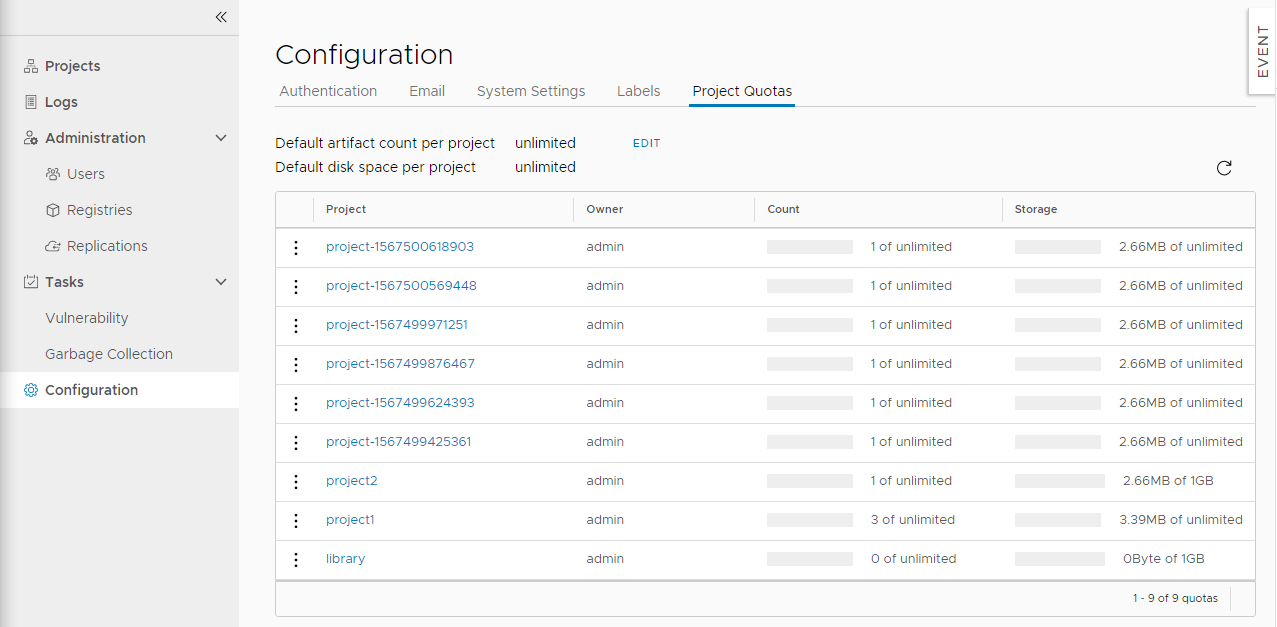
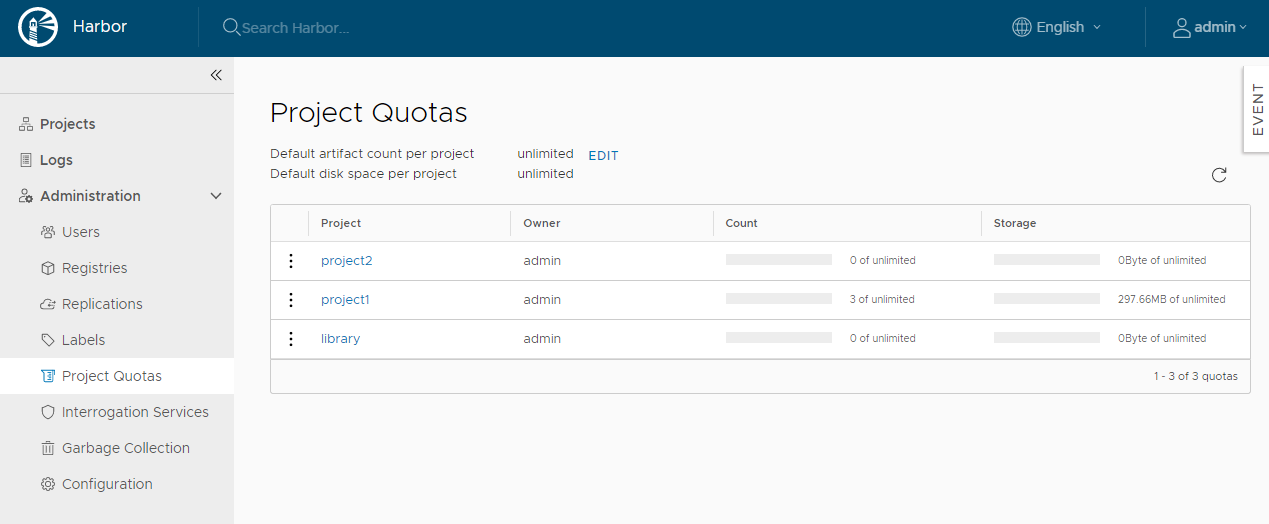
Updated project quota doc to reflect new position in UI

diff --git a/docs/user_guide.md b/docs/user_guide.md
@@ -301,7 +301,7 @@ The images can be filtered by labels:
 
 ## Set Project Quotas
 
-To exercise control over resource use, as a system administrator you can set  quotas on projects. You can limit the number of tags that a project can contain and limit the amount of storage capacity that a project can consume. You can set default quotas that apply to all projects globally.
+To exercise control over resource use, as a Harbor administrator you can set  quotas on projects. You can limit the number of tags that a project can contain and limit the amount of storage capacity that a project can consume. You can set default quotas that apply to all projects globally.
 
 **NOTE**: Default quotas apply to projects that are created after you set or change the default quota. The default quota is not applied to projects that already existed before you set it.
 
@@ -309,16 +309,12 @@ You can also set quotas on individual projects. If you set a global default quot
 
 By default, all projects have unlimited quotas for both tags and storage use. 
 
-1. Go to **Configuration** > **Project Quotas**.
+1. Select the **Project Quotas** view.
    ![Project quotas](img/project-quota1.png)
 1. To set global default quotas on all projects, click **Edit**.
    ![Project quotas](img/project-quota2.png)
-   1. For **Default artifact count**, enter the maximum number of tags that any project can contain. 
-   
-   Enter `-1` to set the default to unlimited. 
-   1. For **Default storage consumption**, enter the maximum quantity of storage that any project can consume, selecting `MB`, `GB`, or `TB` from the drop-down menu. 
-   
-   Enter `-1` to set the default to unlimited.
+   1. For **Default artifact count**, enter the maximum number of tags that any project can contain, or enter `-1` to set the default to unlimited.   
+   1. For **Default storage consumption**, enter the maximum quantity of storage that any project can consume, selecting `MB`, `GB`, or `TB` from the drop-down menu, or enter `-1` to set the default to unlimited.  
    ![Project quotas](img/project-quota3.png)
    1. Click **OK**.
 1. To set quotas on an individual project, click the 3 vertical dots next to a project and select **Edit**.
@@ -326,7 +322,7 @@ By default, all projects have unlimited quotas for both tags and storage use.
    1. For **Default artifact count**, enter the maximum number of tags that this individual project can contain, or enter `-1` to set the default to unlimited. 
    1. For **Default storage consumption**, enter the maximum quantity of storage that this individual project can consume, selecting `MB`, `GB`, or `TB` from the drop-down menu.
 
-After you set quotas, the you can see how much of their quotas each project has consumed in the **Project Quotas** tab.
+After you set quotas, the you can see how much of their quotas each project has consumed.
 
 ![Project quotas](img/project-quota5.png)
 
